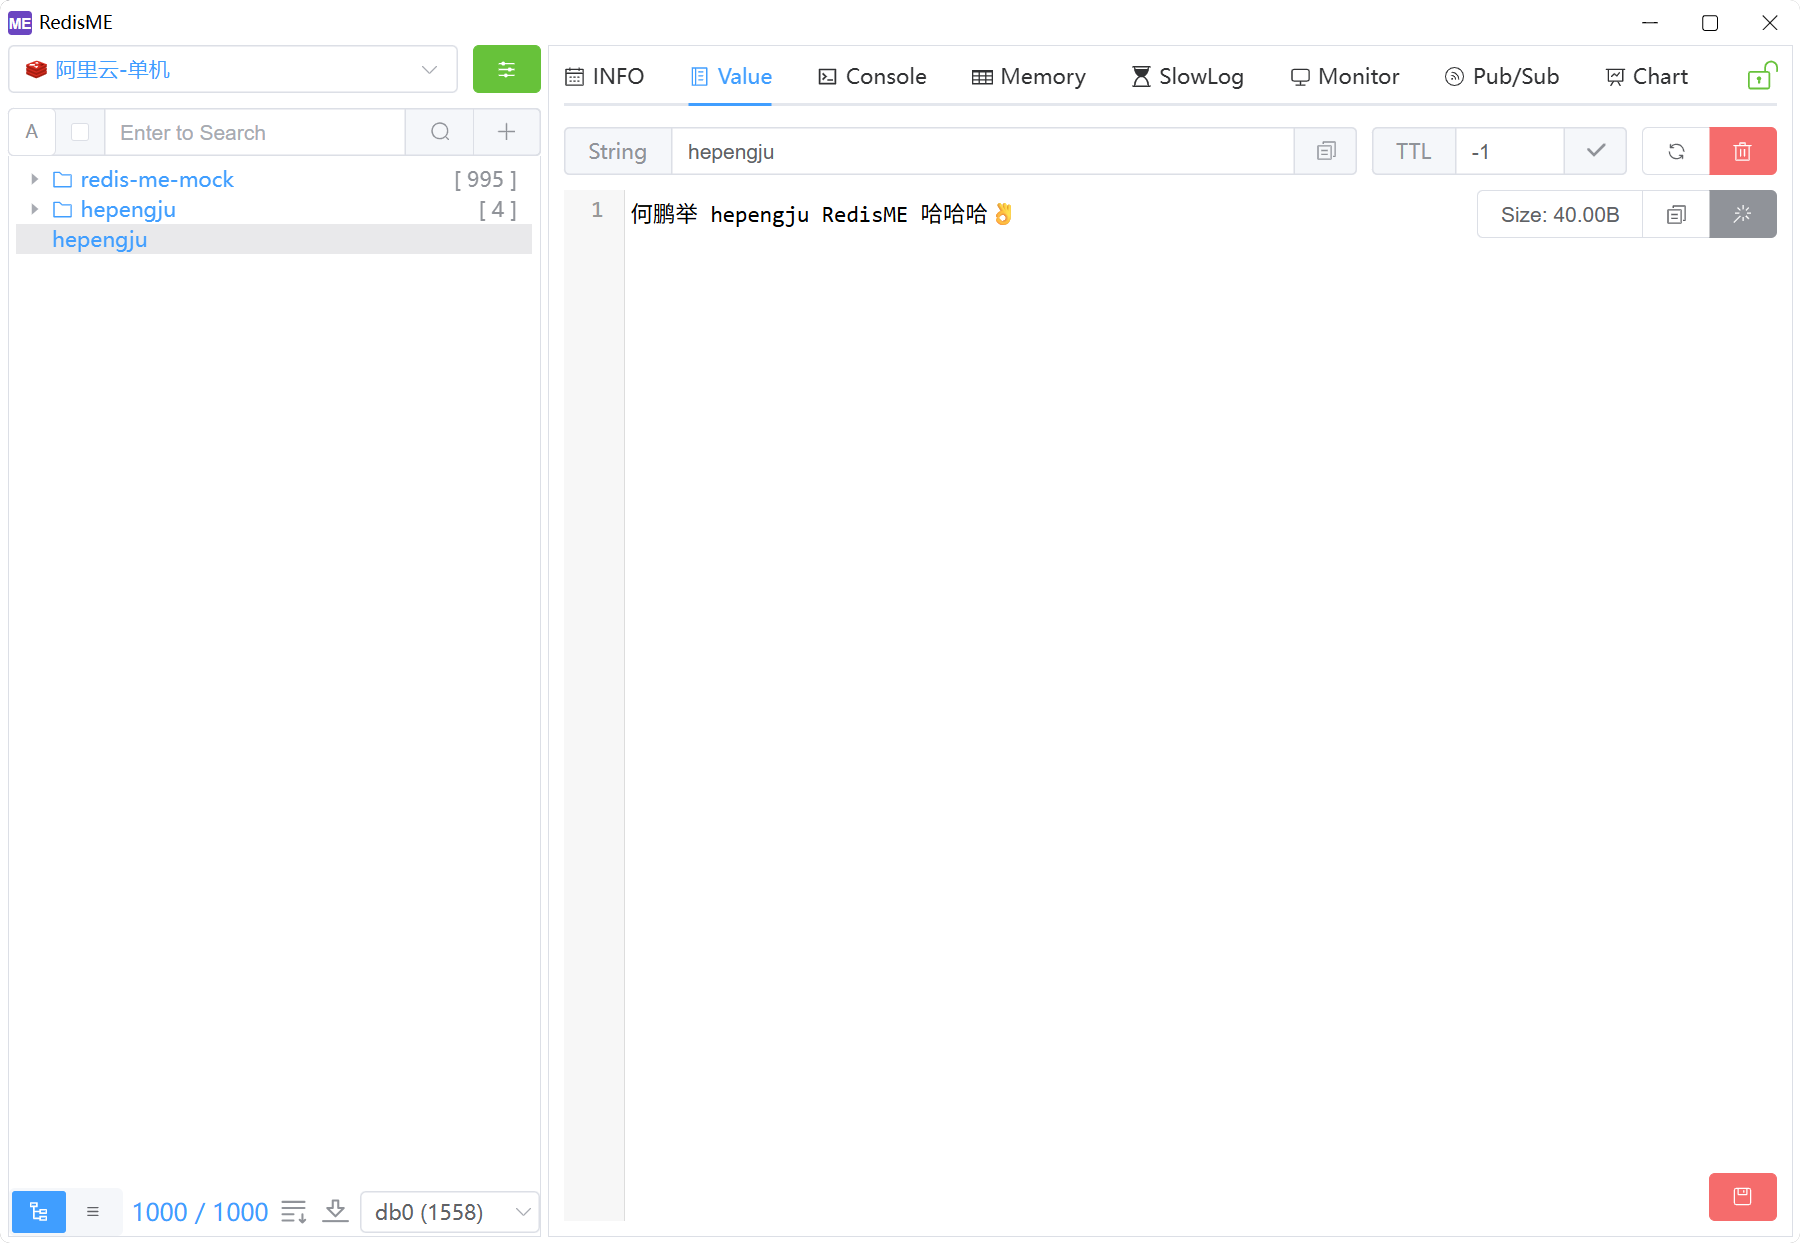
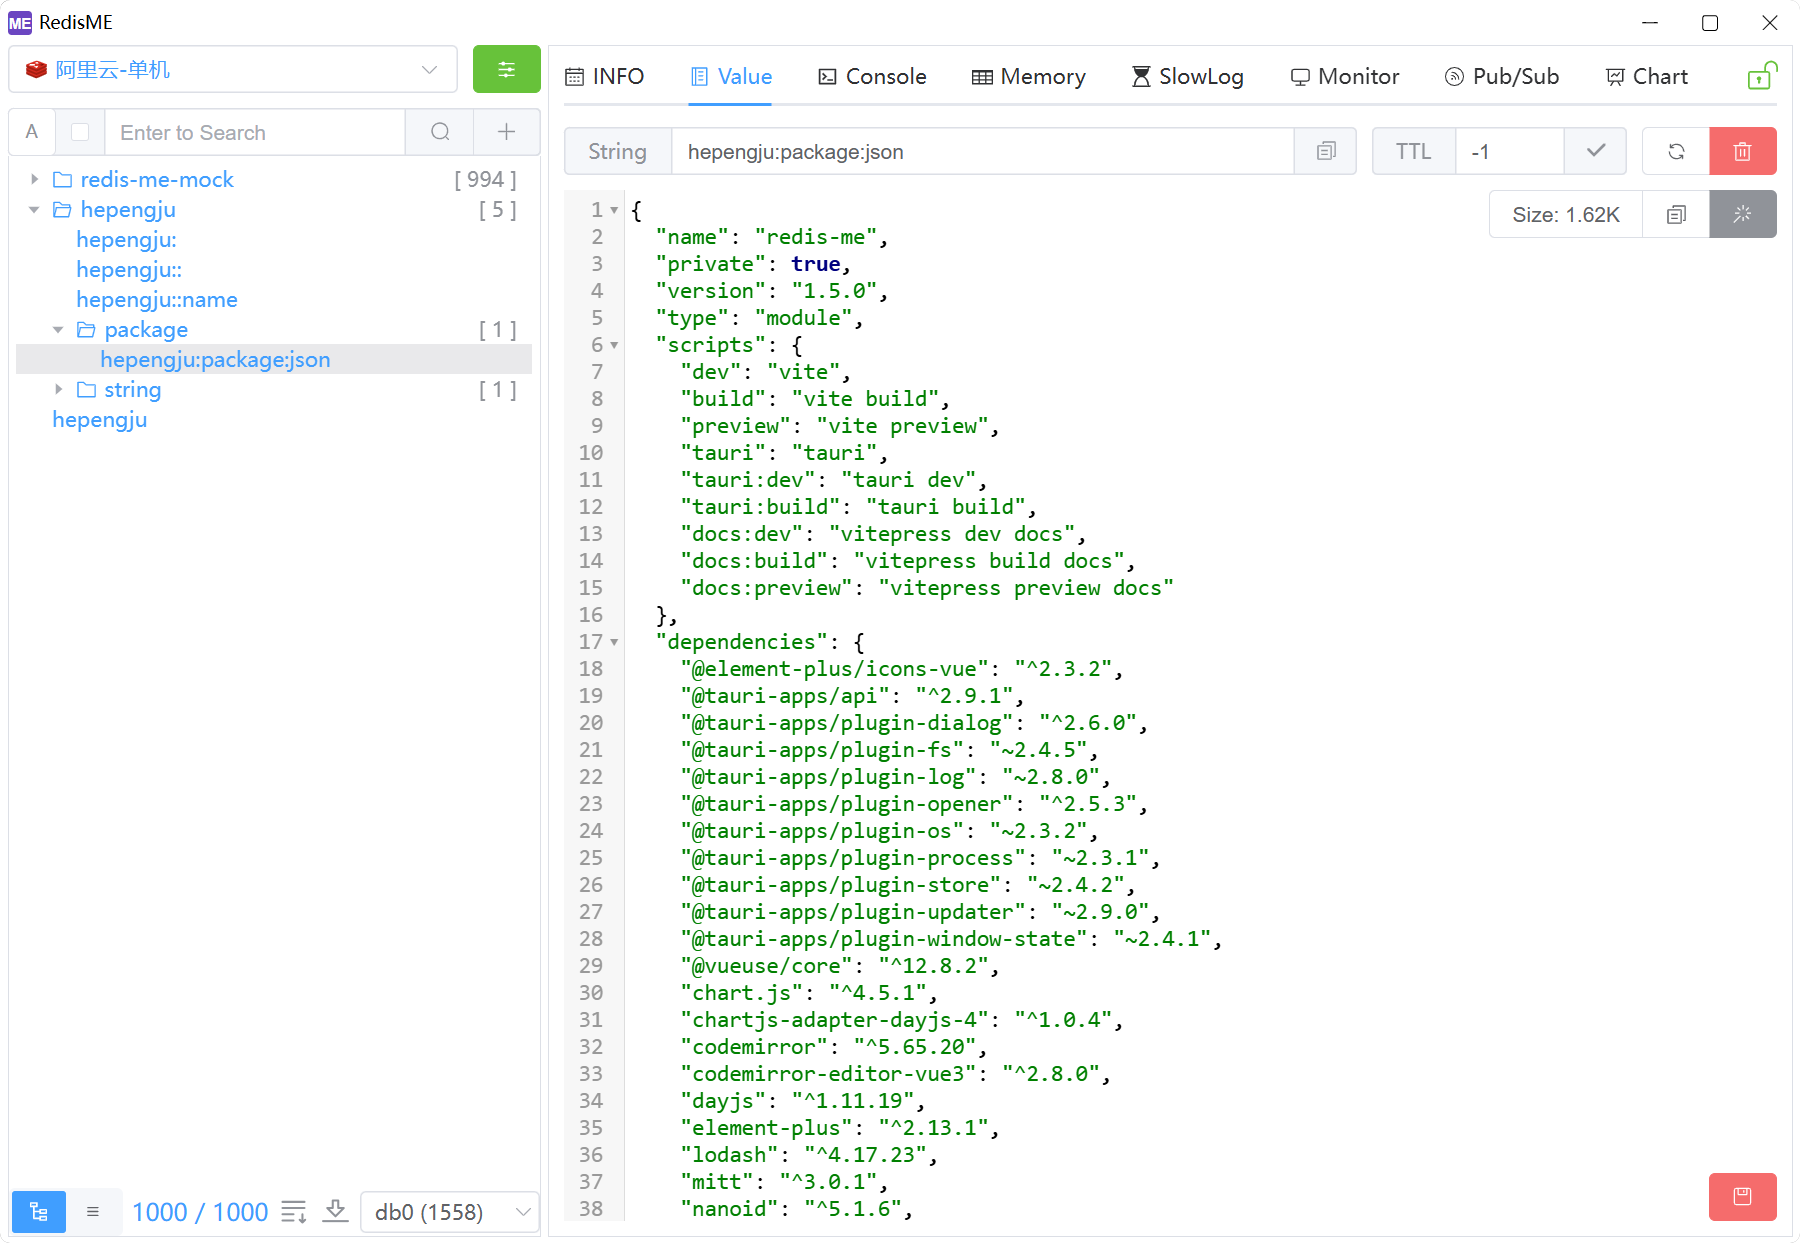
Merge pull request #33 from hepengju/dev
Dev

Pull request: Dev

diff --git a/docs/config.js b/docs/config.js
@@ -51,11 +51,11 @@ function sidebarGuide() {
       text: 'Usage and Configuration',
       items: [
         {text: 'Features', link: '/usage/special'},
-        {text: 'Setting', link: '/usage/setting'},
+        // {text: 'Setting', link: '/usage/setting'},
         {text: 'Connection', link: '/usage/connection'},
         {text: 'Info', link: '/usage/info'},
-        {text: 'Client', link: '/usage/client'},
-        {text: 'Config', link: '/usage/config'},
+        // {text: 'Client', link: '/usage/client'},
+        // {text: 'Config', link: '/usage/config'},
         {text: 'Value', link: '/usage/value'},
         {text: 'Terminal', link: '/usage/terminal'},
         {text: 'Memory', link: '/usage/memory'},

diff --git a/docs/zh/config.js b/docs/zh/config.js
@@ -78,11 +78,11 @@ function sidebarGuide() {
       text: '使用手册',
       items: [
         {text: '特色功能', link: '/usage/special'},
-        {text: '应用设置', link: '/usage/setting'},
+        // {text: '应用设置', link: '/usage/setting'},
         {text: '连接列表', link: '/usage/connection'},
         {text: '信息', link: '/usage/info'},
-        {text: '客户端', link: '/usage/client'},
-        {text: '配置', link: '/usage/config'},
+        // {text: '客户端', link: '/usage/client'},
+        // {text: '配置', link: '/usage/config'},
         {text: '键值', link: '/usage/value'},
         {text: '终端', link: '/usage/terminal'},
         {text: '内存分析', link: '/usage/memory'},

diff --git a/docs/en/guide/usage/special.md b/docs/en/guide/usage/special.md
@@ -1,1 +1,23 @@
-# 特色功能
+# Special Features
+
+## Readonly | Writable
+In read-only scenarios, buttons related to modifications are automatically hidden, making the interface cleaner while preventing accidental operations and improving security.
+When data needs to be modified, click the 🔒 lock to unlock and edit.
+
+## Redis Info
+Key information such as runtime, total number of keys, number of clients, memory usage, and persistence configuration is prominently displayed.
+All parameters are displayed in tables, with detailed explanations added for each parameter, making it easy for users to quickly identify and understand.
+
+## Redis Config
+- Reference: Default configuration parameters for Redis 8/7/6, etc., can be viewed.
+- Differences: Quickly view the differences between the current configuration and the default configuration.
+- Explanation: Each configuration parameter includes a detailed explanation.
+
+## Terminal Commands
+In cluster mode, support for executing commands on specific nodes and automatically broadcasting commands (e.g., config set xxx).
+Supports command list hints and detailed explanations.
+
+## Memory Analysis
+Allows fine-grained configuration of the number of scans per session, sleep time, total number of scans, etc., making it easier to quickly process keys that occupy large amounts of memory.
+
+

diff --git a/docs/zh/guide/usage/special.md b/docs/zh/guide/usage/special.md
@@ -1,1 +1,23 @@
 # 特色功能
+
+## 只读|可写
+只读场景下，涉及修改的按钮自动隐藏，界面更加简洁的同时避免误操作提高安全性。
+在需要修改数据时，点击🔒解锁即可编辑。
+
+## Redis信息
+运行时间、键总数、客户端数量、内存使用量、持久化配置等关键信息重点展示。
+所有参数表格展示，并添加每个参数的详细解释，便于用户快速识别和理解。
+
+## Redis配置
+- 参考：可以查看Redis8/7/6等默认配置参数
+- 差异: 可以快速查看当前配置与默认配置的差异
+- 说明：每个配置参数都有详细说明
+
+## 终端命令
+在集群模式下，支持指定特定节点执行命令以及自动广播命令（比如 config set xxx）。
+支持命令的列表提示和详细解释
+
+## 内存分析
+允许精细化的配置每次扫描的个数，睡眠时间以及扫描总数等，便于快速内存占用大的键进行处理。
+
+